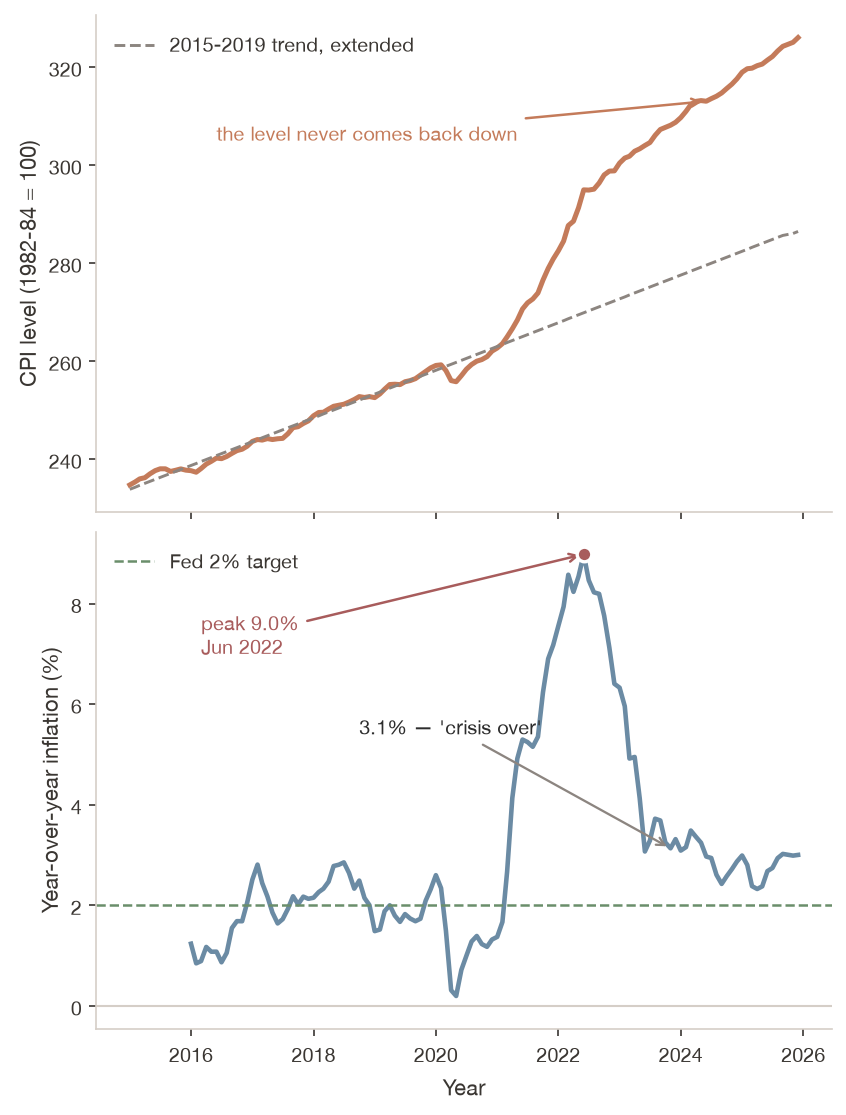
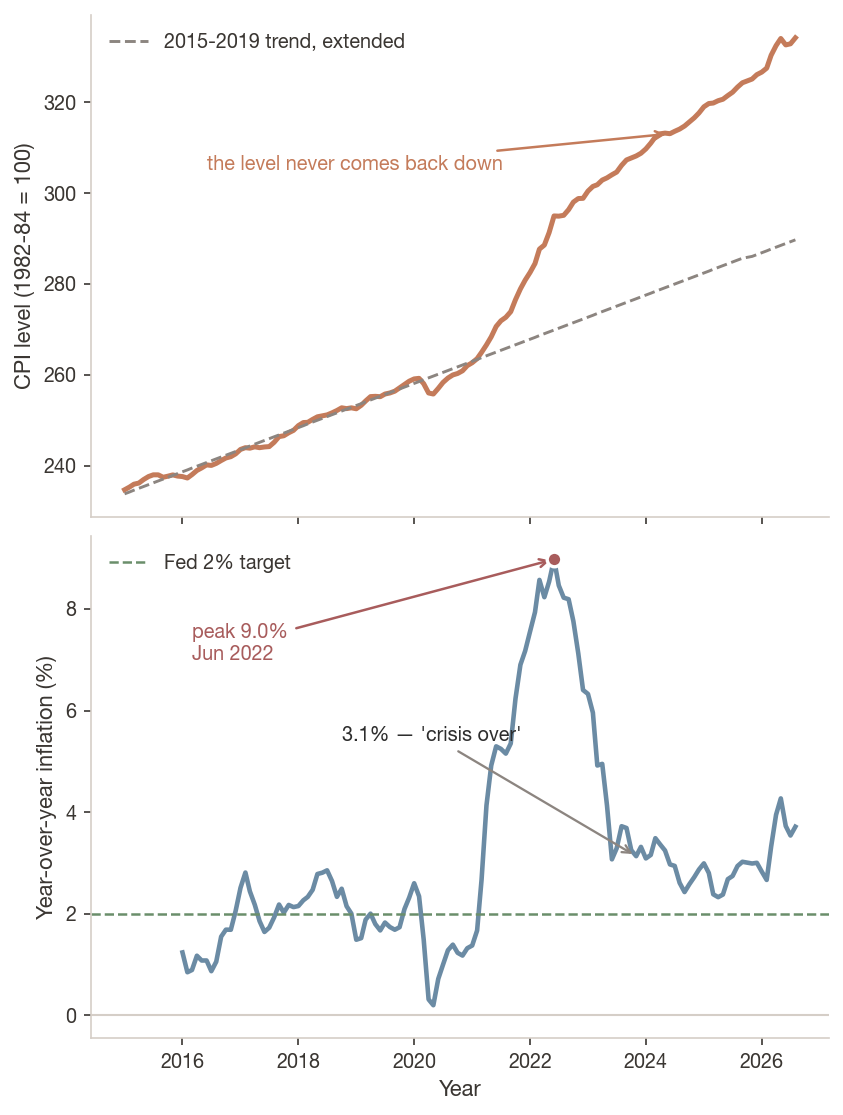
3916 Ch 2: retire the Lab 2 'known bug', and refresh the figures the lab now pulls
Lab 2 Step 4 prints 33% and 65% side by side and labels the second one, so the
units-discipline slide and the lab slide describe that instead of a defect.
The figure loader no longer stops at Dec 2025, matching the lab's load_fred:
wages run to Aug 2026 ($32.53 nominal, $25.20 real) and the real Big Mac is
$4.84, +43%. Attendance is Wednesday's start-of-class check; Chapter 3 is
Thursday.

diff --git a/econ3916/ch02-measurement-indexes-nominal-vs-real/index.html b/econ3916/ch02-measurement-indexes-nominal-vs-real/index.html
@@ -56,7 +56,7 @@
             <img src="figures/cover-ch02-index.png" alt="Cover illustration: dozens of faint blue price paths funnel from a wide scatter into a single bold orange line, labelled many prices at the top left and one number at the bottom right" style="width: 100%; height: 100%; object-fit: cover;">
           </div>
         </div>
-        <aside class="notes">Chapter 2, taught Monday 2026-09-14 (moved from 09-10 when Topic 1 took both Week 1 meetings). Open with the last 15 minutes of Chapter 1 Section 4 from the Topic 1 deck, then start here: title, objectives, the dashboard opening, then the hook. (The roadmap and Chapter 1 retrieval slides were removed 2026-09-14.) Topic 2 Attendance is due today; Lab 2 is due Wednesday 2026-09-23. RESCHEDULED 2026-09-15: Topic 2 runs Mon 09-14 (opening only) and Wed 09-16. Wednesday's check-in is the start-of-class 'Topic 2 Attendance — Are Prices Coming Down?'; this course already ran the Big Mac End-of-Class Check on Monday, so skip that slide on Wednesday. Open by naming the day's promise: by the end you will have built an index, used one, and broken one. TIMING (revised 2026-09-13, NLM revision pass): Topic 1 Section 4 carry-over 15 + opening (title, LOs, dashboard opening; roadmap and retrieval removed) 2.5 + hook 5 + Part 1 23 (CPI-U/W/E slide added 2026-09-14, +1) + Part 2 14.5 (Discussion 2 and misconception-stagnant cut, was 20) + Part 3 8 + Part 4 6.5 (LTV slide cut and Discussion 3 shortened to 3 min, was 10) + close 8 (takeaways 1.5, End-of-Class Check 5, lab 1.5; looking ahead cut) = 82.5 min against a 75-min session. The deck is still about 7.5 minutes over. The diagrams added in this pass replace prose and are time-neutral. If you are behind at the Part 2 divider, the next cut is Discussion 1 CPI-NU (-4). Hidden this pass: discussion-2, misconception-stagnant, ltv and looking-ahead (restore by deleting data-visibility="hidden").</aside>
+        <aside class="notes">Chapter 2, taught Monday 2026-09-14 (moved from 09-10 when Topic 1 took both Week 1 meetings). Open with the last 15 minutes of Chapter 1 Section 4 from the Topic 1 deck, then start here: title, objectives, the dashboard opening, then the hook. (The roadmap and Chapter 1 retrieval slides were removed 2026-09-14.) Topic 2 Attendance is the start-of-class check on Wednesday 2026-09-16; Lab 2 is due Wednesday 2026-09-23. RESCHEDULED 2026-09-15: Topic 2 runs Mon 09-14 (opening only) and Wed 09-16. Wednesday's check-in is the start-of-class 'Topic 2 Attendance — Are Prices Coming Down?'; this course already ran the Big Mac End-of-Class Check on Monday, so skip that slide on Wednesday. Open by naming the day's promise: by the end you will have built an index, used one, and broken one. TIMING (revised 2026-09-13, NLM revision pass): Topic 1 Section 4 carry-over 15 + opening (title, LOs, dashboard opening; roadmap and retrieval removed) 2.5 + hook 5 + Part 1 23 (CPI-U/W/E slide added 2026-09-14, +1) + Part 2 14.5 (Discussion 2 and misconception-stagnant cut, was 20) + Part 3 8 + Part 4 6.5 (LTV slide cut and Discussion 3 shortened to 3 min, was 10) + close 8 (takeaways 1.5, End-of-Class Check 5, lab 1.5; looking ahead cut) = 82.5 min against a 75-min session. The deck is still about 7.5 minutes over. The diagrams added in this pass replace prose and are time-neutral. If you are behind at the Part 2 divider, the next cut is Discussion 1 CPI-NU (-4). Hidden this pass: discussion-2, misconception-stagnant, ltv and looking-ahead (restore by deleting data-visibility="hidden").</aside>
       </section>
 
       <!-- ============ SLIDE 2: LEARNING OBJECTIVES ============ -->
@@ -824,10 +824,10 @@
             </div>
           </div>
           <div class="fragment fade-up" style="background: #f8f6f3; border-left: 4px solid var(--primary-color); border-radius: 8px; padding: 16px 22px; margin-top: 20px;">
-            <p style="font-size: 16pt;"><i class="fa-solid fa-flask" style="color: var(--primary-color);"></i> <strong>Heads up for Lab 2:</strong> Step 4's closing line makes exactly this mistake and prints 65%. Read the units before you trust the print statement &mdash; and note the correction in your write-up.</p>
+            <p style="font-size: 16pt;"><i class="fa-solid fa-flask" style="color: var(--primary-color);"></i> <strong>Lab 2, Step 4 prints both numbers.</strong> 33% is the like-for-like comparison; 65% is the mistake on the left, printed on purpose. Your write-up says which dollars each number is in &mdash; and which one answers the question.</p>
           </div>
         </div>
-        <aside class="notes">Announce the lab defect out loud before they run it. Step 4 of lab-ch02-guided compares a 2025 nominal 55,000 against a 1970 income expressed in 2020 dollars. The correct real gain is about 33 percent. Turning it into a spot-the-bug exercise is better than a silent fix.</aside>
+        <aside class="notes">UPDATED 2026-09-15: the lab used to print only the 65 percent, as a defect to catch; it now prints both figures deliberately. Step 4 of lab-ch02-guided deflates the 55,000 to 2020 dollars, prints "Comparing like with like, you are 33% richer in real terms", then prints the 65 percent labelled "which is the units error this whole chapter exists to prevent". Say that before they run it, so nobody reports the second line as a bug. The sentence to land: 33 percent is the answer, 65 percent is the trap, and the gap is five years of price level that was never removed from the numerator.</aside>
       </section>
 
       <!-- ============ SLIDE 33: DEFLATION FORMULA ============ -->
@@ -885,18 +885,18 @@
       <section id="wage-figure" style="padding: 26px 50px;">
         <h2 style="font-size: 26pt;"><i class="fa-solid fa-chart-line" style="color: var(--accent-color);"></i> Fifty Years of Wage Divergence</h2>
         <div style="display: grid; grid-template-columns: 1.4fr 1fr; gap: 26px; align-items: start; margin-top: 4px;">
-          <img src="figures/figure_003_real_vs_nominal_wages.png" alt="Line chart of US average hourly earnings from 1964 to 2025. The blue nominal line rises steadily from 2.50 dollars to 31.83 dollars. The orange real line, in 2020 dollars, peaks at 24.43 dollars in January 1973, falls through the 1980s and 1990s to below 20 dollars, and only regains the 1973 level around 2020, with a dashed guide line marking 46 years spent below it" style="width: 100%; max-height: 520px; object-fit: contain;">
+          <img src="figures/figure_003_real_vs_nominal_wages.png" alt="Line chart of US average hourly earnings from 1964 to 2026. The blue nominal line rises steadily from 2.50 dollars to 32.53 dollars. The orange real line, in 2020 dollars, peaks at 24.43 dollars in January 1973, falls through the 1980s and 1990s to below 20 dollars, and only regains the 1973 level around 2020, with a dashed guide line marking 46 years spent below it" style="width: 100%; max-height: 520px; object-fit: contain;">
           <div>
             <div style="background: #f0f5f8; border-radius: 8px; padding: 15px 19px; border-left: 4px solid var(--secondary-color);">
-              <p style="font-size: 14.5pt;"><strong>Nominal (blue).</strong> $2.50 in Jan 1964 to $31.83 in Dec 2025. More than twelvefold. Any worker watching the paycheck number saw steady gains.</p>
+              <p style="font-size: 14.5pt;"><strong>Nominal (blue).</strong> $2.50 in Jan 1964 to $32.53 in Aug 2026. More than twelvefold. Any worker watching the paycheck number saw steady gains.</p>
             </div>
             <div style="background: #fdf3ee; border-radius: 8px; padding: 15px 19px; border-left: 4px solid var(--accent-color); margin-top: 12px;">
-              <p style="font-size: 14.5pt;"><strong>Real (orange), in 2020 dollars.</strong> $20.92 to $25.27, with the peak at $25.42 in April 2020. Fifty years of nominal growth; the real line goes roughly sideways.</p>
+              <p style="font-size: 14.5pt;"><strong>Real (orange), in 2020 dollars.</strong> $20.92 to $25.20, with the peak at $25.42 in April 2020. Fifty years of nominal growth; the real line goes roughly sideways.</p>
             </div>
             <div style="background: #f8f6f3; border-radius: 8px; padding: 15px 19px; border-left: 4px solid var(--primary-color); margin-top: 12px;">
               <p style="font-size: 14.5pt;">Same series. Same source. <strong>One deflation step separates a story of prosperity from a story of stagnation.</strong></p>
             </div>
-            <p style="font-size: 12pt; color: var(--muted-color); margin-top: 14px; font-style: italic;">FRED AHETPI deflated by CPIAUCSL, executed 2026-09-05 &mdash; the same data vintage Lab 2 pulls.</p>
+            <p style="font-size: 12pt; color: var(--muted-color); margin-top: 14px; font-style: italic;">FRED AHETPI deflated by CPIAUCSL, executed 2026-09-15 &mdash; the same data vintage Lab 2 pulls.</p>
           </div>
         </div>
         <aside class="notes">This is the emotional centre of the lecture. Pause when it appears. Then ask the chapter's question: if you earned 10 dollars an hour nominal in 1990, were you better off than someone earning 4 dollars in 1973? Roughly equal in real terms.</aside>
@@ -908,14 +908,14 @@
         <div class="content">
           <div style="display: grid; grid-template-columns: repeat(2, 1fr); gap: 16px; margin-top: 6px;">
             <div style="background: #f0f5f8; border-radius: 10px; padding: 20px 24px; border-left: 4px solid var(--secondary-color);">
-              <p style="font-size: 14pt; text-transform: uppercase; letter-spacing: 2px; color: var(--secondary-color);">Nominal, Jan 1964 &rarr; Dec 2025</p>
-              <p style="font-size: 27pt; font-weight: 700; margin-top: 6px;">$2.50 &rarr; $31.83</p>
-              <p style="font-size: 14.5pt; color: var(--muted-color); margin-top: 4px;">A 1,173% increase. This is the number on the paycheck.</p>
+              <p style="font-size: 14pt; text-transform: uppercase; letter-spacing: 2px; color: var(--secondary-color);">Nominal, Jan 1964 &rarr; Aug 2026</p>
+              <p style="font-size: 27pt; font-weight: 700; margin-top: 6px;">$2.50 &rarr; $32.53</p>
+              <p style="font-size: 14.5pt; color: var(--muted-color); margin-top: 4px;">A 1,201% increase. This is the number on the paycheck.</p>
             </div>
             <div style="background: #fdf3ee; border-radius: 10px; padding: 20px 24px; border-left: 4px solid var(--accent-color);">
               <p style="font-size: 14pt; text-transform: uppercase; letter-spacing: 2px; color: var(--accent-color);">Real (2020 $), same window</p>
-              <p style="font-size: 27pt; font-weight: 700; margin-top: 6px;">$20.92 &rarr; $25.27</p>
-              <p style="font-size: 14.5pt; color: var(--muted-color); margin-top: 4px;">A 21% increase &mdash; over sixty-two years.</p>
+              <p style="font-size: 27pt; font-weight: 700; margin-top: 6px;">$20.92 &rarr; $25.20</p>
+              <p style="font-size: 14.5pt; color: var(--muted-color); margin-top: 4px;">A 20% increase &mdash; over sixty-two years.</p>
             </div>
             <div style="background: #f9edea; border-radius: 10px; padding: 20px 24px; border-left: 4px solid var(--danger-color);">
               <p style="font-size: 14pt; text-transform: uppercase; letter-spacing: 2px; color: var(--danger-color);">Real, Jan 1973 &rarr; Jan 2019</p>
@@ -928,7 +928,7 @@
               <p style="font-size: 14.5pt; color: var(--muted-color); margin-top: 4px;">A pandemic composition effect, not a raise. More on that next slide.</p>
             </div>
           </div>
-          <p style="font-size: 15pt; margin-top: 18px; text-align: center; font-style: italic; color: var(--muted-color);">Every figure executed from FRED on 2026-09-05. If a printed table disagrees with these, trust the run.</p>
+          <p style="font-size: 15pt; margin-top: 18px; text-align: center; font-style: italic; color: var(--muted-color);">Every figure executed from FRED on 2026-09-15. If a printed table disagrees with these, trust the run.</p>
         </div>
         <aside class="notes">The chapter's Data Snapshot quotes 23.60 and 23.70 for real 1973 and 2019, and 3.94 nominal in 1973. The executed series gives 24.43, 23.71 and 4.03. The qualitative claim survives and actually strengthens: it is a small real DECLINE over the 46 years, not a ten-cent gain. Use the executed numbers. Say both sides of the popular argument out loud here: "wages have been stagnant since the 1970s" is true in real terms, and "wages have never been higher" is true in nominal terms. The professional habit: never present a monetary series without saying real or nominal, and in which year's dollars.</aside>
       </section>
@@ -1048,7 +1048,7 @@
             </div>
             <div style="background: #f9edea; border-radius: 10px; padding: 20px 24px; border-top: 4px solid var(--danger-color);">
               <p style="font-size: 16pt; font-weight: 700; color: var(--danger-color);">Invisible &mdash; in nominal terms</p>
-              <p style="font-size: 15pt; margin-top: 8px;">Nominal AHE went from $2.50 to $31.83 over the same period. Quote that series and &ldquo;stagnation&rdquo; looks like nonsense.</p>
+              <p style="font-size: 15pt; margin-top: 8px;">Nominal AHE went from $2.50 to $32.53 over the same period. Quote that series and &ldquo;stagnation&rdquo; looks like nonsense.</p>
             </div>
           </div>
           <div class="fragment fade-up key-result" style="background: #f8f6f3; border-left: 5px solid var(--primary-color); border-radius: 8px; padding: 20px 26px; margin-top: 22px;">
@@ -1108,20 +1108,20 @@
           </div>
           <p class="fragment fade-up" style="font-size: 16pt; margin-top: 16px; text-align: center;">You already have the tool. It is the same one you used on wages: <strong>divide by the CPI.</strong></p>
         </div>
-        <aside class="notes">Prices are from The Economist's own dataset, executed 2026-09-05. Note that the chapter's printed table opens at 2.51 in January 2000; the dataset's first US observation is 2.24 in April 2000, a different vintage. Quote the dataset, since that is what the lab will produce on their screens.</aside>
+        <aside class="notes">Prices are from The Economist's own dataset, executed 2026-09-15. Note that the chapter's printed table opens at 2.51 in January 2000; the dataset's first US observation is 2.24 in April 2000, a different vintage. Quote the dataset, since that is what the lab will produce on their screens.</aside>
       </section>
 
       <!-- ============ SLIDE 45: BIG MAC FIGURE ============ -->
       <section id="bigmac-figure" style="padding: 26px 50px;">
         <h2 style="font-size: 26pt;"><i class="fa-solid fa-chart-line" style="color: var(--success-color);"></i> Three-Quarters of It Was the Dollar</h2>
         <div style="display: grid; grid-template-columns: 1.4fr 1fr; gap: 26px; align-items: start; margin-top: 4px;">
-          <img src="figures/figure_004_bigmac_real_nominal.png" alt="Line chart of US Big Mac prices from 2000 to 2026 with a marker on each semi-annual observation. The blue nominal line climbs from 2.24 to 6.22 dollars, an increase of 178 percent. The orange real line in 2020 dollars climbs much more gently from 3.39 to 4.94 dollars, an increase of 46 percent, and has been roughly flat since 2016" style="width: 100%; max-height: 520px; object-fit: contain;">
+          <img src="figures/figure_004_bigmac_real_nominal.png" alt="Line chart of US Big Mac prices from 2000 to 2026 with a marker on each semi-annual observation. The blue nominal line climbs from 2.24 to 6.22 dollars, an increase of 178 percent. The orange real line in 2020 dollars climbs much more gently from 3.39 to 4.84 dollars, an increase of 43 percent, and has been roughly flat since 2016" style="width: 100%; max-height: 520px; object-fit: contain;">
           <div>
             <div style="background: #f0f5f8; border-radius: 8px; padding: 15px 19px; border-left: 4px solid var(--secondary-color);">
               <p style="font-size: 14.5pt;"><strong>Nominal:</strong> $2.24 &rarr; $6.22. That is <strong>+178%</strong>.</p>
             </div>
             <div style="background: #fdf3ee; border-radius: 8px; padding: 15px 19px; border-left: 4px solid var(--accent-color); margin-top: 12px;">
-              <p style="font-size: 14.5pt;"><strong>Real (2020 dollars):</strong> $3.39 &rarr; $4.94. That is <strong>+46%</strong>.</p>
+              <p style="font-size: 14.5pt;"><strong>Real (2020 dollars):</strong> $3.39 &rarr; $4.84. That is <strong>+43%</strong>.</p>
             </div>
             <div style="background: #eef5ee; border-radius: 8px; padding: 15px 19px; border-left: 4px solid var(--success-color); margin-top: 12px;">
               <p style="font-size: 14.5pt;">Roughly <strong>three-quarters of the sticker increase was inflation</strong>, not a more expensive hamburger.</p>
@@ -1131,7 +1131,7 @@
             </div>
           </div>
         </div>
-        <aside class="notes">Executed 2026-09-05 from The Economist's big-mac-full-index plus FRED CPIAUCSL, matching the lab exactly. The chapter's table claims the sticker was frozen at 5.71 to 5.69 across 2020-2024; the dataset shows 4.82 to 5.69 over that window, so do not make the four-year-freeze claim from the podium. The chart behind you contradicts it. 2022 dip (checked 2026-09-13): real price $4.82 in Jan 2021, $4.52 in Jul 2022, while the sticker went 4.89 to 5.15 - McDonald's raised prices, just slower than everything else. Caveat for a sharp student: the figure and the lab both pull CPI through Dec 2025 (load_fred's default end date), so the July 2026 point is deflated with Dec 2025 CPI. With the latest CPI it is $4.84 and +43%, not $4.94 and +46%. The three-quarters conclusion is unchanged (135 of 178 points).</aside>
+        <aside class="notes">Executed 2026-09-15 from The Economist's big-mac-full-index plus FRED CPIAUCSL, matching the lab exactly. The chapter's table claims the sticker was frozen at 5.71 to 5.69 across 2020-2024; the dataset shows 4.82 to 5.69 over that window, so do not make the four-year-freeze claim from the podium. The chart behind you contradicts it. 2022 dip (checked 2026-09-13): real price $4.82 in Jan 2021, $4.52 in Jul 2022, while the sticker went 4.89 to 5.15 - McDonald's raised prices, just slower than everything else. UPDATED 2026-09-15: the lab's load_fred no longer stops at Dec 2025, and this figure's loader no longer does either, so both deflate the July 2026 burger with July 2026 CPI. The slide reads $4.84 and +43%, which is what the lab prints. The three-quarters conclusion is unchanged (135 of 178 points).</aside>
       </section>
 
       <!-- ============ SLIDE 46: TRADEABLE VS NON-TRADEABLE ============ -->
@@ -1543,11 +1543,11 @@
             </div>
           </div>
           <div style="background: #f9edea; border-left: 4px solid var(--danger-color); border-radius: 8px; padding: 16px 22px; margin-top: 18px;">
-            <p style="font-size: 16pt;"><i class="fa-solid fa-bug" style="color: var(--danger-color);"></i> <strong>Known bug, and I want you to catch it.</strong> Step 4 prints &ldquo;you are 65% richer in real terms.&rdquo; It compares a 2025 <em>nominal</em> salary against a 1970 income expressed in <em>2020</em> dollars. Fix the units in your submission and state the corrected figure.</p>
+            <p style="font-size: 16pt;"><i class="fa-solid fa-scale-unbalanced" style="color: var(--danger-color);"></i> <strong>Step 4 prints two answers, and only one is right.</strong> 33% compares <em>2020</em> dollars with <em>2020</em> dollars; 65% divides a 2025 <em>nominal</em> salary by a 2020-dollar figure. Say in your write-up which dollars each number is in, and why the second one is the error.</p>
           </div>
           <p style="font-size: 15pt; margin-top: 14px; text-align: center;">Push to GitHub with a P.R.I.M.E. README. Submit the repository link on Canvas.</p>
         </div>
-        <aside class="notes">Announcing the bug converts a defect into an assessment. Students who find and explain it demonstrate exactly LO 2.2. Topic 2 Attendance is due today - remind them before they leave the room. This is now the LAST slide (looking-ahead is hidden), so close on it: "Chapter 3 on Wednesday - the wage chart you saw today is your first time-series plot, and next time we ask when a chart like that is honest."</aside>
+        <aside class="notes">UPDATED 2026-09-15: Step 4 no longer carries a defect - it prints the 33 percent and the 65 percent side by side and labels the second one. Reading both and naming the units is what demonstrates LO 2.2. Topic 2 Attendance is the start-of-class check on Wednesday 09-16, not today; Lab 2 is due Wednesday 09-23. This is now the LAST slide (looking-ahead is hidden), so close on it: "Chapter 3 on Thursday - the wage chart you saw today is your first time-series plot, and next time we ask when a chart like that is honest."</aside>
       </section>
 
       <!-- ============ SLIDE 65: LOOKING AHEAD ============ -->

diff --git a/econ3916/ch02-measurement-indexes-nominal-vs-real/presentation.html b/econ3916/ch02-measurement-indexes-nominal-vs-real/presentation.html
@@ -56,7 +56,7 @@
             <img src="figures/cover-ch02-index.png" alt="Cover illustration: dozens of faint blue price paths funnel from a wide scatter into a single bold orange line, labelled many prices at the top left and one number at the bottom right" style="width: 100%; height: 100%; object-fit: cover;">
           </div>
         </div>
-        <aside class="notes">Chapter 2, taught Monday 2026-09-14 (moved from 09-10 when Topic 1 took both Week 1 meetings). Open with the last 15 minutes of Chapter 1 Section 4 from the Topic 1 deck, then start here: title, objectives, the dashboard opening, then the hook. (The roadmap and Chapter 1 retrieval slides were removed 2026-09-14.) Topic 2 Attendance is due today; Lab 2 is due Wednesday 2026-09-23. RESCHEDULED 2026-09-15: Topic 2 runs Mon 09-14 (opening only) and Wed 09-16. Wednesday's check-in is the start-of-class 'Topic 2 Attendance — Are Prices Coming Down?'; this course already ran the Big Mac End-of-Class Check on Monday, so skip that slide on Wednesday. Open by naming the day's promise: by the end you will have built an index, used one, and broken one. TIMING (revised 2026-09-13, NLM revision pass): Topic 1 Section 4 carry-over 15 + opening (title, LOs, dashboard opening; roadmap and retrieval removed) 2.5 + hook 5 + Part 1 23 (CPI-U/W/E slide added 2026-09-14, +1) + Part 2 14.5 (Discussion 2 and misconception-stagnant cut, was 20) + Part 3 8 + Part 4 6.5 (LTV slide cut and Discussion 3 shortened to 3 min, was 10) + close 8 (takeaways 1.5, End-of-Class Check 5, lab 1.5; looking ahead cut) = 82.5 min against a 75-min session. The deck is still about 7.5 minutes over. The diagrams added in this pass replace prose and are time-neutral. If you are behind at the Part 2 divider, the next cut is Discussion 1 CPI-NU (-4). Hidden this pass: discussion-2, misconception-stagnant, ltv and looking-ahead (restore by deleting data-visibility="hidden").</aside>
+        <aside class="notes">Chapter 2, taught Monday 2026-09-14 (moved from 09-10 when Topic 1 took both Week 1 meetings). Open with the last 15 minutes of Chapter 1 Section 4 from the Topic 1 deck, then start here: title, objectives, the dashboard opening, then the hook. (The roadmap and Chapter 1 retrieval slides were removed 2026-09-14.) Topic 2 Attendance is the start-of-class check on Wednesday 2026-09-16; Lab 2 is due Wednesday 2026-09-23. RESCHEDULED 2026-09-15: Topic 2 runs Mon 09-14 (opening only) and Wed 09-16. Wednesday's check-in is the start-of-class 'Topic 2 Attendance — Are Prices Coming Down?'; this course already ran the Big Mac End-of-Class Check on Monday, so skip that slide on Wednesday. Open by naming the day's promise: by the end you will have built an index, used one, and broken one. TIMING (revised 2026-09-13, NLM revision pass): Topic 1 Section 4 carry-over 15 + opening (title, LOs, dashboard opening; roadmap and retrieval removed) 2.5 + hook 5 + Part 1 23 (CPI-U/W/E slide added 2026-09-14, +1) + Part 2 14.5 (Discussion 2 and misconception-stagnant cut, was 20) + Part 3 8 + Part 4 6.5 (LTV slide cut and Discussion 3 shortened to 3 min, was 10) + close 8 (takeaways 1.5, End-of-Class Check 5, lab 1.5; looking ahead cut) = 82.5 min against a 75-min session. The deck is still about 7.5 minutes over. The diagrams added in this pass replace prose and are time-neutral. If you are behind at the Part 2 divider, the next cut is Discussion 1 CPI-NU (-4). Hidden this pass: discussion-2, misconception-stagnant, ltv and looking-ahead (restore by deleting data-visibility="hidden").</aside>
       </section>
 
       <!-- ============ SLIDE 2: LEARNING OBJECTIVES ============ -->
@@ -824,10 +824,10 @@
             </div>
           </div>
           <div class="fragment fade-up" style="background: #f8f6f3; border-left: 4px solid var(--primary-color); border-radius: 8px; padding: 16px 22px; margin-top: 20px;">
-            <p style="font-size: 16pt;"><i class="fa-solid fa-flask" style="color: var(--primary-color);"></i> <strong>Heads up for Lab 2:</strong> Step 4's closing line makes exactly this mistake and prints 65%. Read the units before you trust the print statement &mdash; and note the correction in your write-up.</p>
+            <p style="font-size: 16pt;"><i class="fa-solid fa-flask" style="color: var(--primary-color);"></i> <strong>Lab 2, Step 4 prints both numbers.</strong> 33% is the like-for-like comparison; 65% is the mistake on the left, printed on purpose. Your write-up says which dollars each number is in &mdash; and which one answers the question.</p>
           </div>
         </div>
-        <aside class="notes">Announce the lab defect out loud before they run it. Step 4 of lab-ch02-guided compares a 2025 nominal 55,000 against a 1970 income expressed in 2020 dollars. The correct real gain is about 33 percent. Turning it into a spot-the-bug exercise is better than a silent fix.</aside>
+        <aside class="notes">UPDATED 2026-09-15: the lab used to print only the 65 percent, as a defect to catch; it now prints both figures deliberately. Step 4 of lab-ch02-guided deflates the 55,000 to 2020 dollars, prints "Comparing like with like, you are 33% richer in real terms", then prints the 65 percent labelled "which is the units error this whole chapter exists to prevent". Say that before they run it, so nobody reports the second line as a bug. The sentence to land: 33 percent is the answer, 65 percent is the trap, and the gap is five years of price level that was never removed from the numerator.</aside>
       </section>
 
       <!-- ============ SLIDE 33: DEFLATION FORMULA ============ -->
@@ -885,18 +885,18 @@
       <section id="wage-figure" style="padding: 26px 50px;">
         <h2 style="font-size: 26pt;"><i class="fa-solid fa-chart-line" style="color: var(--accent-color);"></i> Fifty Years of Wage Divergence</h2>
         <div style="display: grid; grid-template-columns: 1.4fr 1fr; gap: 26px; align-items: start; margin-top: 4px;">
-          <img src="figures/figure_003_real_vs_nominal_wages.png" alt="Line chart of US average hourly earnings from 1964 to 2025. The blue nominal line rises steadily from 2.50 dollars to 31.83 dollars. The orange real line, in 2020 dollars, peaks at 24.43 dollars in January 1973, falls through the 1980s and 1990s to below 20 dollars, and only regains the 1973 level around 2020, with a dashed guide line marking 46 years spent below it" style="width: 100%; max-height: 520px; object-fit: contain;">
+          <img src="figures/figure_003_real_vs_nominal_wages.png" alt="Line chart of US average hourly earnings from 1964 to 2026. The blue nominal line rises steadily from 2.50 dollars to 32.53 dollars. The orange real line, in 2020 dollars, peaks at 24.43 dollars in January 1973, falls through the 1980s and 1990s to below 20 dollars, and only regains the 1973 level around 2020, with a dashed guide line marking 46 years spent below it" style="width: 100%; max-height: 520px; object-fit: contain;">
           <div>
             <div style="background: #f0f5f8; border-radius: 8px; padding: 15px 19px; border-left: 4px solid var(--secondary-color);">
-              <p style="font-size: 14.5pt;"><strong>Nominal (blue).</strong> $2.50 in Jan 1964 to $31.83 in Dec 2025. More than twelvefold. Any worker watching the paycheck number saw steady gains.</p>
+              <p style="font-size: 14.5pt;"><strong>Nominal (blue).</strong> $2.50 in Jan 1964 to $32.53 in Aug 2026. More than twelvefold. Any worker watching the paycheck number saw steady gains.</p>
             </div>
             <div style="background: #fdf3ee; border-radius: 8px; padding: 15px 19px; border-left: 4px solid var(--accent-color); margin-top: 12px;">
-              <p style="font-size: 14.5pt;"><strong>Real (orange), in 2020 dollars.</strong> $20.92 to $25.27, with the peak at $25.42 in April 2020. Fifty years of nominal growth; the real line goes roughly sideways.</p>
+              <p style="font-size: 14.5pt;"><strong>Real (orange), in 2020 dollars.</strong> $20.92 to $25.20, with the peak at $25.42 in April 2020. Fifty years of nominal growth; the real line goes roughly sideways.</p>
             </div>
             <div style="background: #f8f6f3; border-radius: 8px; padding: 15px 19px; border-left: 4px solid var(--primary-color); margin-top: 12px;">
               <p style="font-size: 14.5pt;">Same series. Same source. <strong>One deflation step separates a story of prosperity from a story of stagnation.</strong></p>
             </div>
-            <p style="font-size: 12pt; color: var(--muted-color); margin-top: 14px; font-style: italic;">FRED AHETPI deflated by CPIAUCSL, executed 2026-09-05 &mdash; the same data vintage Lab 2 pulls.</p>
+            <p style="font-size: 12pt; color: var(--muted-color); margin-top: 14px; font-style: italic;">FRED AHETPI deflated by CPIAUCSL, executed 2026-09-15 &mdash; the same data vintage Lab 2 pulls.</p>
           </div>
         </div>
         <aside class="notes">This is the emotional centre of the lecture. Pause when it appears. Then ask the chapter's question: if you earned 10 dollars an hour nominal in 1990, were you better off than someone earning 4 dollars in 1973? Roughly equal in real terms.</aside>
@@ -908,14 +908,14 @@
         <div class="content">
           <div style="display: grid; grid-template-columns: repeat(2, 1fr); gap: 16px; margin-top: 6px;">
             <div style="background: #f0f5f8; border-radius: 10px; padding: 20px 24px; border-left: 4px solid var(--secondary-color);">
-              <p style="font-size: 14pt; text-transform: uppercase; letter-spacing: 2px; color: var(--secondary-color);">Nominal, Jan 1964 &rarr; Dec 2025</p>
-              <p style="font-size: 27pt; font-weight: 700; margin-top: 6px;">$2.50 &rarr; $31.83</p>
-              <p style="font-size: 14.5pt; color: var(--muted-color); margin-top: 4px;">A 1,173% increase. This is the number on the paycheck.</p>
+              <p style="font-size: 14pt; text-transform: uppercase; letter-spacing: 2px; color: var(--secondary-color);">Nominal, Jan 1964 &rarr; Aug 2026</p>
+              <p style="font-size: 27pt; font-weight: 700; margin-top: 6px;">$2.50 &rarr; $32.53</p>
+              <p style="font-size: 14.5pt; color: var(--muted-color); margin-top: 4px;">A 1,201% increase. This is the number on the paycheck.</p>
             </div>
             <div style="background: #fdf3ee; border-radius: 10px; padding: 20px 24px; border-left: 4px solid var(--accent-color);">
               <p style="font-size: 14pt; text-transform: uppercase; letter-spacing: 2px; color: var(--accent-color);">Real (2020 $), same window</p>
-              <p style="font-size: 27pt; font-weight: 700; margin-top: 6px;">$20.92 &rarr; $25.27</p>
-              <p style="font-size: 14.5pt; color: var(--muted-color); margin-top: 4px;">A 21% increase &mdash; over sixty-two years.</p>
+              <p style="font-size: 27pt; font-weight: 700; margin-top: 6px;">$20.92 &rarr; $25.20</p>
+              <p style="font-size: 14.5pt; color: var(--muted-color); margin-top: 4px;">A 20% increase &mdash; over sixty-two years.</p>
             </div>
             <div style="background: #f9edea; border-radius: 10px; padding: 20px 24px; border-left: 4px solid var(--danger-color);">
               <p style="font-size: 14pt; text-transform: uppercase; letter-spacing: 2px; color: var(--danger-color);">Real, Jan 1973 &rarr; Jan 2019</p>
@@ -928,7 +928,7 @@
               <p style="font-size: 14.5pt; color: var(--muted-color); margin-top: 4px;">A pandemic composition effect, not a raise. More on that next slide.</p>
             </div>
           </div>
-          <p style="font-size: 15pt; margin-top: 18px; text-align: center; font-style: italic; color: var(--muted-color);">Every figure executed from FRED on 2026-09-05. If a printed table disagrees with these, trust the run.</p>
+          <p style="font-size: 15pt; margin-top: 18px; text-align: center; font-style: italic; color: var(--muted-color);">Every figure executed from FRED on 2026-09-15. If a printed table disagrees with these, trust the run.</p>
         </div>
         <aside class="notes">The chapter's Data Snapshot quotes 23.60 and 23.70 for real 1973 and 2019, and 3.94 nominal in 1973. The executed series gives 24.43, 23.71 and 4.03. The qualitative claim survives and actually strengthens: it is a small real DECLINE over the 46 years, not a ten-cent gain. Use the executed numbers. Say both sides of the popular argument out loud here: "wages have been stagnant since the 1970s" is true in real terms, and "wages have never been higher" is true in nominal terms. The professional habit: never present a monetary series without saying real or nominal, and in which year's dollars.</aside>
       </section>
@@ -1048,7 +1048,7 @@
             </div>
             <div style="background: #f9edea; border-radius: 10px; padding: 20px 24px; border-top: 4px solid var(--danger-color);">
               <p style="font-size: 16pt; font-weight: 700; color: var(--danger-color);">Invisible &mdash; in nominal terms</p>
-              <p style="font-size: 15pt; margin-top: 8px;">Nominal AHE went from $2.50 to $31.83 over the same period. Quote that series and &ldquo;stagnation&rdquo; looks like nonsense.</p>
+              <p style="font-size: 15pt; margin-top: 8px;">Nominal AHE went from $2.50 to $32.53 over the same period. Quote that series and &ldquo;stagnation&rdquo; looks like nonsense.</p>
             </div>
           </div>
           <div class="fragment fade-up key-result" style="background: #f8f6f3; border-left: 5px solid var(--primary-color); border-radius: 8px; padding: 20px 26px; margin-top: 22px;">
@@ -1108,20 +1108,20 @@
           </div>
           <p class="fragment fade-up" style="font-size: 16pt; margin-top: 16px; text-align: center;">You already have the tool. It is the same one you used on wages: <strong>divide by the CPI.</strong></p>
         </div>
-        <aside class="notes">Prices are from The Economist's own dataset, executed 2026-09-05. Note that the chapter's printed table opens at 2.51 in January 2000; the dataset's first US observation is 2.24 in April 2000, a different vintage. Quote the dataset, since that is what the lab will produce on their screens.</aside>
+        <aside class="notes">Prices are from The Economist's own dataset, executed 2026-09-15. Note that the chapter's printed table opens at 2.51 in January 2000; the dataset's first US observation is 2.24 in April 2000, a different vintage. Quote the dataset, since that is what the lab will produce on their screens.</aside>
       </section>
 
       <!-- ============ SLIDE 45: BIG MAC FIGURE ============ -->
       <section id="bigmac-figure" style="padding: 26px 50px;">
         <h2 style="font-size: 26pt;"><i class="fa-solid fa-chart-line" style="color: var(--success-color);"></i> Three-Quarters of It Was the Dollar</h2>
         <div style="display: grid; grid-template-columns: 1.4fr 1fr; gap: 26px; align-items: start; margin-top: 4px;">
-          <img src="figures/figure_004_bigmac_real_nominal.png" alt="Line chart of US Big Mac prices from 2000 to 2026 with a marker on each semi-annual observation. The blue nominal line climbs from 2.24 to 6.22 dollars, an increase of 178 percent. The orange real line in 2020 dollars climbs much more gently from 3.39 to 4.94 dollars, an increase of 46 percent, and has been roughly flat since 2016" style="width: 100%; max-height: 520px; object-fit: contain;">
+          <img src="figures/figure_004_bigmac_real_nominal.png" alt="Line chart of US Big Mac prices from 2000 to 2026 with a marker on each semi-annual observation. The blue nominal line climbs from 2.24 to 6.22 dollars, an increase of 178 percent. The orange real line in 2020 dollars climbs much more gently from 3.39 to 4.84 dollars, an increase of 43 percent, and has been roughly flat since 2016" style="width: 100%; max-height: 520px; object-fit: contain;">
           <div>
             <div style="background: #f0f5f8; border-radius: 8px; padding: 15px 19px; border-left: 4px solid var(--secondary-color);">
               <p style="font-size: 14.5pt;"><strong>Nominal:</strong> $2.24 &rarr; $6.22. That is <strong>+178%</strong>.</p>
             </div>
             <div style="background: #fdf3ee; border-radius: 8px; padding: 15px 19px; border-left: 4px solid var(--accent-color); margin-top: 12px;">
-              <p style="font-size: 14.5pt;"><strong>Real (2020 dollars):</strong> $3.39 &rarr; $4.94. That is <strong>+46%</strong>.</p>
+              <p style="font-size: 14.5pt;"><strong>Real (2020 dollars):</strong> $3.39 &rarr; $4.84. That is <strong>+43%</strong>.</p>
             </div>
             <div style="background: #eef5ee; border-radius: 8px; padding: 15px 19px; border-left: 4px solid var(--success-color); margin-top: 12px;">
               <p style="font-size: 14.5pt;">Roughly <strong>three-quarters of the sticker increase was inflation</strong>, not a more expensive hamburger.</p>
@@ -1131,7 +1131,7 @@
             </div>
           </div>
         </div>
-        <aside class="notes">Executed 2026-09-05 from The Economist's big-mac-full-index plus FRED CPIAUCSL, matching the lab exactly. The chapter's table claims the sticker was frozen at 5.71 to 5.69 across 2020-2024; the dataset shows 4.82 to 5.69 over that window, so do not make the four-year-freeze claim from the podium. The chart behind you contradicts it. 2022 dip (checked 2026-09-13): real price $4.82 in Jan 2021, $4.52 in Jul 2022, while the sticker went 4.89 to 5.15 - McDonald's raised prices, just slower than everything else. Caveat for a sharp student: the figure and the lab both pull CPI through Dec 2025 (load_fred's default end date), so the July 2026 point is deflated with Dec 2025 CPI. With the latest CPI it is $4.84 and +43%, not $4.94 and +46%. The three-quarters conclusion is unchanged (135 of 178 points).</aside>
+        <aside class="notes">Executed 2026-09-15 from The Economist's big-mac-full-index plus FRED CPIAUCSL, matching the lab exactly. The chapter's table claims the sticker was frozen at 5.71 to 5.69 across 2020-2024; the dataset shows 4.82 to 5.69 over that window, so do not make the four-year-freeze claim from the podium. The chart behind you contradicts it. 2022 dip (checked 2026-09-13): real price $4.82 in Jan 2021, $4.52 in Jul 2022, while the sticker went 4.89 to 5.15 - McDonald's raised prices, just slower than everything else. UPDATED 2026-09-15: the lab's load_fred no longer stops at Dec 2025, and this figure's loader no longer does either, so both deflate the July 2026 burger with July 2026 CPI. The slide reads $4.84 and +43%, which is what the lab prints. The three-quarters conclusion is unchanged (135 of 178 points).</aside>
       </section>
 
       <!-- ============ SLIDE 46: TRADEABLE VS NON-TRADEABLE ============ -->
@@ -1543,11 +1543,11 @@
             </div>
           </div>
           <div style="background: #f9edea; border-left: 4px solid var(--danger-color); border-radius: 8px; padding: 16px 22px; margin-top: 18px;">
-            <p style="font-size: 16pt;"><i class="fa-solid fa-bug" style="color: var(--danger-color);"></i> <strong>Known bug, and I want you to catch it.</strong> Step 4 prints &ldquo;you are 65% richer in real terms.&rdquo; It compares a 2025 <em>nominal</em> salary against a 1970 income expressed in <em>2020</em> dollars. Fix the units in your submission and state the corrected figure.</p>
+            <p style="font-size: 16pt;"><i class="fa-solid fa-scale-unbalanced" style="color: var(--danger-color);"></i> <strong>Step 4 prints two answers, and only one is right.</strong> 33% compares <em>2020</em> dollars with <em>2020</em> dollars; 65% divides a 2025 <em>nominal</em> salary by a 2020-dollar figure. Say in your write-up which dollars each number is in, and why the second one is the error.</p>
           </div>
           <p style="font-size: 15pt; margin-top: 14px; text-align: center;">Push to GitHub with a P.R.I.M.E. README. Submit the repository link on Canvas.</p>
         </div>
-        <aside class="notes">Announcing the bug converts a defect into an assessment. Students who find and explain it demonstrate exactly LO 2.2. Topic 2 Attendance is due today - remind them before they leave the room. This is now the LAST slide (looking-ahead is hidden), so close on it: "Chapter 3 on Wednesday - the wage chart you saw today is your first time-series plot, and next time we ask when a chart like that is honest."</aside>
+        <aside class="notes">UPDATED 2026-09-15: Step 4 no longer carries a defect - it prints the 33 percent and the 65 percent side by side and labels the second one. Reading both and naming the units is what demonstrates LO 2.2. Topic 2 Attendance is the start-of-class check on Wednesday 09-16, not today; Lab 2 is due Wednesday 09-23. This is now the LAST slide (looking-ahead is hidden), so close on it: "Chapter 3 on Thursday - the wage chart you saw today is your first time-series plot, and next time we ask when a chart like that is honest."</aside>
       </section>
 
       <!-- ============ SLIDE 65: LOOKING AHEAD ============ -->
